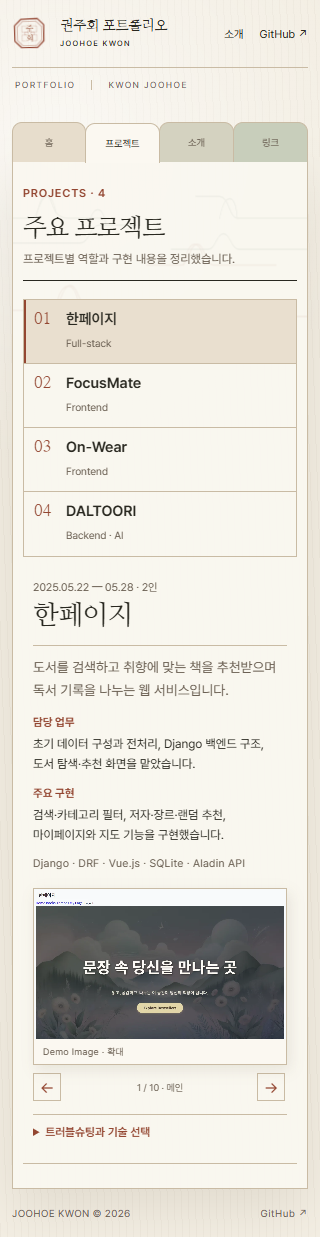
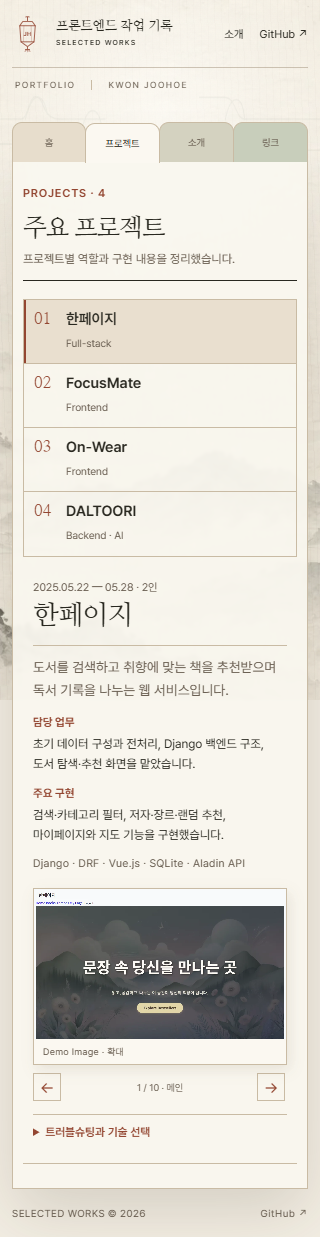
docs(t01): 산수화 배경 검증 기록

diff --git a/design.md b/design.md
@@ -1,6 +1,6 @@
 # introme 디자인 기준
 
-상태: 2026-09-16 전환형 아카이브 리디자인과 실제 프로젝트 화면 수록을 구현·로컬 검증했다. 동양풍 편집 디자인, 종이 파일 탭, 절제된 움직임을 유지하고 프로젝트별 실행 화면과 별도 트러블슈팅 기록을 더했다. 붉은 면 도장은 선형 인장으로 교체하고, 기록철 뒤에는 낮은 대비의 전통 구름 선을 배치한다. 검증 결과는 docs/T01-tabbed-validation.json에 기록한다.
+상태: 2026-09-16 전환형 아카이브 리디자인과 실제 프로젝트 화면 수록을 구현·로컬 검증했다. 동양풍 편집 디자인, 종이 파일 탭, 절제된 움직임을 유지하고 프로젝트별 실행 화면과 별도 트러블슈팅 기록을 더했다. 페이지 전체 바탕에는 여백이 넓은 수묵 산수화와 움직이는 구름을 배치하고, 상단 표식은 `JH` 연등 심벌로 사용한다. 검증 결과는 docs/T01-tabbed-validation.json에 기록한다.
 
 ## 목적과 방향
 채용 담당자와 협업 상대에게 권주회의 관심과 일하는 방식, 구현 경험의 근거를 소개한다. 컨셉은 **한 권의 작업 기록**이다. 따뜻한 종이 위에 한글 명조체, 인장 같은 작은 이름표, 세로쓰기, 한옥 풍경을 배치한다. 계절은 소개 문구나 사용 시기를 규정하지 않고 사진의 분위기로만 남긴다. 경험 기록은 장식보다 먼저 읽혀야 한다.
@@ -44,7 +44,8 @@
 - 내부 검증 문구인 `확인된 역할`, `커밋에서 확인`을 사용자 화면에 노출하지 않는다. 화면에서는 `담당 업무`, `주요 구현`으로 쓴다.
 - 계절에 종속되는 소개 문장과 불필요한 버전 번호를 쓰지 않는다. 이미지는 분위기 요소로만 남긴다.
 - 사용자 참고 이미지의 파일철 구조, 넓은 여백, 종이색의 미묘한 차이와 얇은 먹선을 차용한다. 원본의 로고·QR·문구는 복제하지 않는다.
-- 상단 이름표는 붉은 면을 채운 사각 도장 대신 `주회` 글자와 매듭 문양을 결합한 선형 인장으로 표현한다. 기록철 탭은 좌우 여백 없이 본문 외곽선에 정확히 맞춘다.
+- 상단 이름표는 연등 윤곽 안에 `JH`만 넣은 선형 심벌로 표현한다. `PORTFOLIO | KWON JOOHOE`를 제외한 헤더·푸터의 이름 반복은 작업 기록을 설명하는 문구로 바꾼다. 기록철 탭은 좌우 여백 없이 본문 외곽선에 정확히 맞춘다.
+- 수묵 산과 구름은 콘텐츠 패널 장식이 아니라 페이지 전체 바탕층에 둔다. 기록철은 반투명한 종이 표면과 그림자로 그 위에 떠 있는 구조를 만든다.
 - 모바일에서는 활성 패널의 내용만 세로로 이어지고, 프로젝트 선택 탭은 2열로 정리한다.
 - 사진: 한옥 마당의 단풍, 한옥 창가의 책·찻잔·은행잎. ImageGen으로 이번 프로젝트를 위해 생성한 분위기 이미지2개다. 본인의 실제 촬영 사진이나 여행·독서 실적을 뜻하지 않는다.
 - 이미지마다 설명하는 alt를 두고, 사진 영역에 '계절 이미지 · AI 제작'을 표시한다. 파일은 dist/assets에 보관하며 화면에서 종횡비와 영역을 예약한다.
@@ -54,7 +55,7 @@
 - 최상위와 프로젝트 탭은 click·Enter·Space를 지원하며 방향키·Home·End로 이동한다. 포커스와 aria-selected를 함께 갱신한다.
 - 오래된 `#stories`와 `#evidence` 주소는 각각 프로젝트와 기록 패널로 연결한다.
 - 폴라로이드가10~12초 주기로3~5px만 움직인다. transform만 사용하고 내용이 뒤늦게 나타나는 스크롤 연출은 하지 않는다.
-- 기록철 뒤의 구름 선은 두 겹이 27~34초 주기로 수평 이동하며 콘텐츠 대비를 해치지 않는 낮은 불투명도를 유지한다.
+- 페이지 바탕의 구름 선은 두 겹이 27~34초 주기로 수평 이동하며 콘텐츠 대비를 해치지 않는 낮은 불투명도를 유지한다.
 - '움직임 멈추기 / 다시 켜기' native button, aria-pressed 제공. 클릭·Enter·Space 동일 동작.
 - OS의 prefers-reduced-motion이면 자동 움직임과 전환, smooth scroll을 해제한다. OS 설정이 켜진 동안 화면 버튼은 '움직임 줄이기 적용 중'으로 표시한다.
 - JavaScript가 없으면 사진은 정지하고 네 최상위 패널과 네 프로젝트 패널을 모두 읽을 수 있다.

diff --git a/docs/T01-log.md b/docs/T01-log.md
@@ -113,3 +113,11 @@
 - 기록철 내부에 두 겹의 구름 선을 추가했다. 각각 27초·34초 주기로 transform만 사용해 천천히 흐르며, 기존 움직임 정지 버튼과 `prefers-reduced-motion` 설정에 함께 반응한다.
 - 최상위 네 탭의 좌우 안쪽 여백을 없애고 같은 비율의 4열로 정리해 탭 양 끝과 본문 외곽선이 정확히 이어지도록 수정했다.
 - 1366×768, 1920×1080, 390×844, 320×700에서 탭·캐러셀·키보드·해시·무스크립트 상태를 다시 검사했다. 모든 해상도에서 가로 넘침, 콘솔 오류, 실패 요청은 0이었다.
+
+## 2026-09-16 · 산수화 바탕과 연등 심벌
+
+- 구름 SVG를 기록철 내부에서 제거하고 브라우저 전체 바탕층으로 옮겼다. 두 겹의 구름은 기존 27초·34초 transform 애니메이션과 움직임 감소 설정을 유지한다.
+- 수묵 산수화 배경은 ImageGen으로 포트폴리오 전용 이미지를 생성했다. 넓은 중앙 여백, 하단과 양옆의 산 능선, 옅은 안개와 구름을 요청했으며 글자·도장·건물·워터마크는 제외했다. 결과를 WebP 품질 84로 변환해 `dist/assets/ink-landscape-bg.webp`에 저장했다.
+- 기록철 폭을 데스크톱에서 소폭 줄이고 반투명 종이 표면과 흐린 그림자를 적용해 산수화가 박스 바깥과 아래에서 보이게 했다.
+- 상단 `주회` 인장을 연등 윤곽 안의 `JH` 선형 심벌로 교체했다. 헤더 이름은 `프론트엔드 작업 기록 / SELECTED WORKS`, 푸터는 `SELECTED WORKS / WEB · UI · API`로 정리하고 홈 소개문의 이름 반복을 제거했다.
+- 1366×768, 1920×1080, 390×844, 320×700에서 이미지 로딩, 탭·캐러셀, 키보드·해시·무스크립트 상태를 재검증했다. 가로 넘침, 콘솔 오류, 실패 요청은 0이었다.
